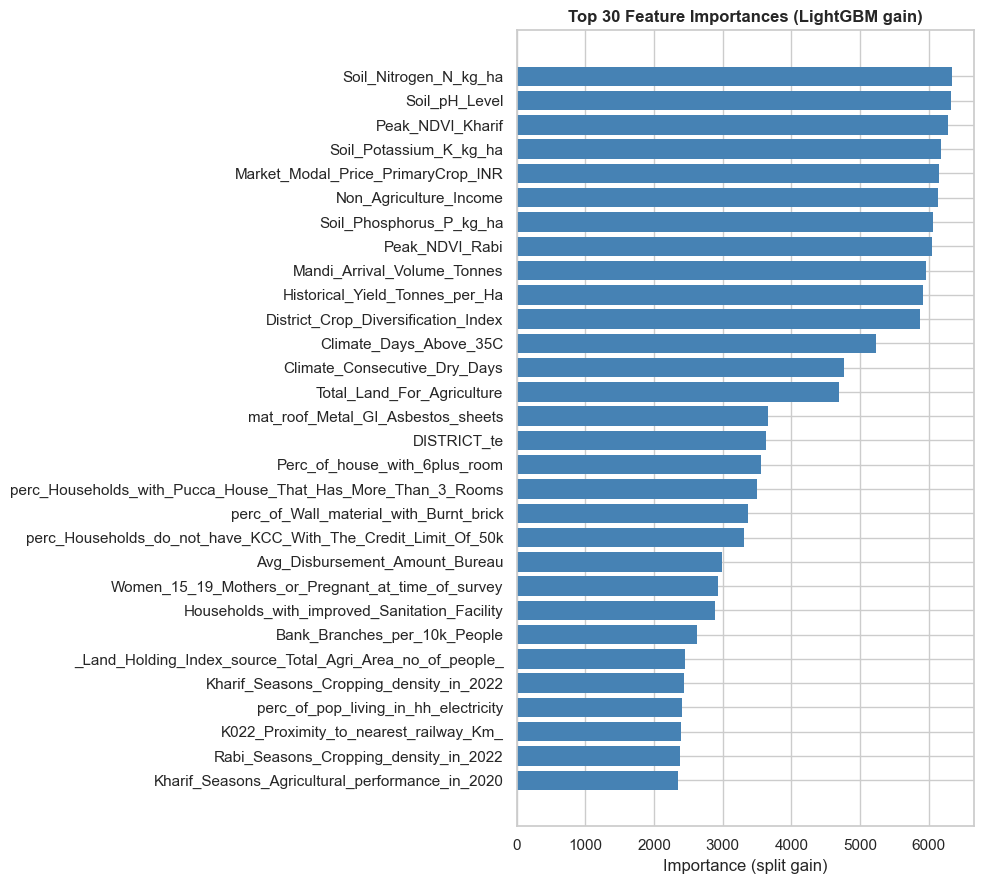
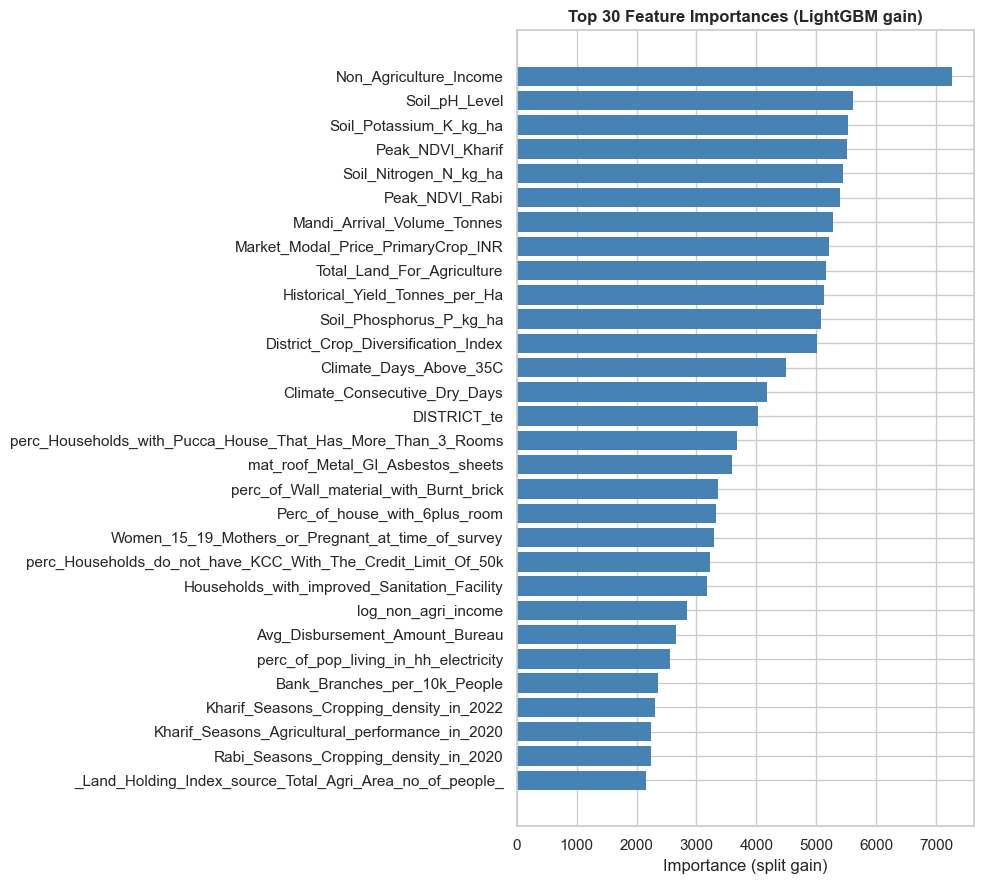
docs: update README with reproducible results

diff --git a/README.md b/README.md
@@ -1,7 +1,7 @@
 # AgriIntel 🌾
 ### Predicting Farmer Income in India using Machine Learning
 
-A competition ML pipeline built to predict total farmer income across \~43,000 Indian farmers, using agricultural, financial, and socio-economic data. The final model achieves **\~21% MAPE** — a 9 percentage point improvement over the Ridge baseline — through LightGBM with Bayesian hyperparameter tuning, 14 externally sourced district-level features, and seasonal volatility signals engineered from 3 years of agricultural score data.
+A competition ML pipeline built to predict total farmer income across \~43,000 Indian farmers, using agricultural, financial, and socio-economic data. The final model achieves **\~20.89% MAPE**— a 9 percentage point improvement over the Ridge baseline - through LightGBM with Bayesian hyperparameter tuning, 14 externally sourced district-level features, and seasonal volatility signals engineered from 3 years of agricultural score data.
 
 ---
 
@@ -13,7 +13,7 @@ agriintel/
 │   ├── enriched_train_data.zip   # Training set with external enrichment merged in
 │   └── test_data.csv
 ├── docs/                         # Approach document
-├── agriintel.ipynb               # Full pipeline: EDA → Feature Engineering → Modelling → Bonus Tasks
+├── agriintel.ipynb               # Complete pipeline
 ├── requirements.txt
 └── .gitignore
 ```
@@ -22,7 +22,7 @@ agriintel/
 
 ## Problem Statement
 
-Predict `Total_Farmer_Income` (in ₹) for a dataset of ~43,000 Indian farmers. The evaluation metric is **MAPE (Mean Absolute Percentage Error)**. The target is highly right-skewed (skewness ≈ 23.15, range ₹29K – ₹8Cr), so a `log1p` transformation is applied before training and reversed with `expm1` at inference.
+Predict `Total_Farmer_Income` (in ₹) for a dataset of \~43,000 Indian farmers. The evaluation metric is **MAPE (Mean Absolute Percentage Error)**. The target is highly right-skewed (skewness ≈ 23.15, range ₹29K – ₹8Cr), so a `log1p` transformation is applied before training and reversed with `expm1` at inference.
 
 ---
 
@@ -30,15 +30,15 @@ Predict `Total_Farmer_Income` (in ₹) for a dataset of ~43,000 Indian farmers. 
 
 | Model | 5-Fold CV MAPE |
 |---|---|
-| Ridge Regression (baseline) | ~30.26% |
-| LightGBM (default params) | ~21.54% |
-| **LightGBM + Optuna tuning** | **~21.10%** |
+| Ridge Regression (baseline) | \~29.91% |
+| LightGBM (default params) | \~21.28% |
+| **LightGBM + Optuna tuning** | **\~20.89% ± 0.46%** |
 
-The tuned LightGBM cuts error by ~9 percentage points vs baseline. Train/val MAPE spread across folds stays under 2pp — no meaningful overfitting.
+The tuned LightGBM cuts error by \~9 percentage points vs baseline. Train/val MAPE spread across folds stays under 2pp - no meaningful overfitting. Results are fully reproducible - `random_state=42` is set on the KFold splits, LightGBM, and Optuna's TPE sampler.
 
-The model performs best in deciles 3–7 (~14–16% MAPE). Error is higher at the extremes — bottom decile (~41%, a known MAPE property at low income levels) and top decile (~32%, where sparse data and unobserved factors limit predictability).
+The model performs best in deciles 3–7 (\~14–16% MAPE). Error is higher at the extremes - bottom decile (\~41%, a known MAPE property at low income levels) and top decile (\~32%, where sparse data and unobserved factors limit predictability).
 
-The single biggest win in the entire pipeline wasn't the model choice or the tuning — it was applying `log1p` to the target. The income distribution has a skewness of 23, and training directly on that would have let a handful of high earners dominate every gradient update.
+The single biggest win in the entire pipeline wasn't the model choice or the tuning - it was applying `log1p` to the target. The income distribution has a skewness of 23, and training directly on that would have let a handful of high earners dominate every gradient update.
 
 ![OOF Diagnostics](docs/oof-diagnostics.png)
 
@@ -47,18 +47,18 @@ The single biggest win in the entire pipeline wasn't the model choice or the tun
 ## The Interesting Parts
 
 ### External data enrichment paid off more than expected
-The competition data alone wasn't enough. 14 district-level features were pulled from public sources — APMC mandi prices, satellite NDVI, soil NPK, climate stress indicators, cold storage access, bank branch density — all keyed on `DISTRICT` and merged into both train and test. Features 2–17 in the final top 30 are almost entirely from this enrichment. The raw district-level data ended up driving the model more than the engineered transforms of the original columns.
+The competition data alone wasn't enough. 14 district-level features were pulled from public sources - APMC mandi prices, satellite NDVI, soil NPK, climate stress indicators, cold storage access, bank branch density - all keyed on `DISTRICT` and merged into both train and test. Features 2–13 in the final top 30 are almost entirely from this enrichment. The raw district-level data ended up driving the model more than the engineered transforms of the original columns.
 
 ### Not flattening the seasonal scores
 Most approaches would average the 2020, 2021, 2022 agricultural scores into one number. Instead, the temporal structure was preserved and the following were engineered:
-- **Trend** (linear slope over 3 years) — is this farmer improving or declining?
-- **Volatility** (std dev across years) — how consistent are they season to season?
-- **Kharif/Rabi ratio** — season dependency risk
+- **Trend** (linear slope over 3 years) - is this farmer improving or declining?
+- **Volatility** (std dev across years) - how consistent are they season to season?
+- **Kharif/Rabi ratio** - season dependency risk
 
-This matters beyond model accuracy: stable farmers (Q1 volatility) earn 15–20% more at the median than volatile ones (Q4), and volatility turns out to be a strong credit risk signal independent of average income — which feeds directly into Bonus Task B.
+This matters beyond model accuracy: stable farmers (Q1 volatility) earn 15–20% more at the median than volatile ones (Q4), and volatility turns out to be a strong credit risk signal independent of average income - which feeds directly into Bonus Task B.
 
 ### Temperature column rescue
-15 temperature columns were stored as strings in `'24.63/31.27'` format — completely unusable by a model. Parsed into `_min`, `_max`, and `_range` per season-year, unlocking all of them.
+15 temperature columns were stored as strings in `'24.63/31.27'` format - completely unusable by a model. Parsed into `_min`, `_max`, and `_range` per season-year, unlocking all of them.
 
 ---
 
@@ -67,7 +67,7 @@ This matters beyond model accuracy: stable farmers (Q1 volatility) earn 15–20%
 ### 1. EDA
 
 - **Target distribution:** Raw income is extremely right-skewed (skew ≈ 23); `log1p`-transformed for training.
-- **Missing values:** Three-tier handling — `Avg_Disbursement_Amount_Bureau` (43% missing) converted to a binary `has_bureau_history` flag; address/ownership columns (~35% missing) mode-imputed per state with a missingness flag; remaining numerics (<1% missing) median-imputed on train, applied to test.
+- **Missing values:** Three-tier handling - `Avg_Disbursement_Amount_Bureau` (43% missing) converted to a binary `has_bureau_history` flag; address/ownership columns (\~35% missing) mode-imputed per state with a missingness flag; remaining numerics (<1% missing) median-imputed on train, applied to test.
 - **Regional patterns:** WEST and SOUTH regions have the highest median incomes. EAST shows the lowest, consistent with smaller land holdings and subsistence farming. A 3–4× income gap exists between the highest and lowest median-income states.
 - **Key correlates:** `Non_Agriculture_Income` is the strongest single predictor (|r| > 0.55), followed by land size and agricultural scores.
 
@@ -86,11 +86,11 @@ This matters beyond model accuracy: stable farmers (Q1 volatility) earn 15–20%
 
 - **Temperature parsing:** String columns in `'min/max'` format parsed into `_min`, `_max`, and `_range` per season-year (15 columns unlocked).
 - **Seasonal trajectory features:** Temporal structure preserved across 2020–2022:
-  - `kharif_score_trend` / `rabi_score_trend` — linear slope of scores over 3 years
-  - `kharif_score_volatility` / `rabi_score_volatility` / `overall_score_volatility` — std dev across years
-  - `kharif_rabi_ratio` — season dependency ratio
-  - `kharif_rainfall_yoy_delta` — year-over-year rainfall change as a climate shock proxy
-- **Access scores:** `mandi_access_score = 1 / (distance + 1)` and `railway_access_score = 1 / (distance + 1)` — non-linear proximity transforms.
+  - `kharif_score_trend` / `rabi_score_trend` - linear slope of scores over 3 years
+  - `kharif_score_volatility` / `rabi_score_volatility` / `overall_score_volatility` - std dev across years
+  - `kharif_rabi_ratio` - season dependency ratio
+  - `kharif_rainfall_yoy_delta` - year-over-year rainfall change as a climate shock proxy
+- **Access scores:** `mandi_access_score = 1 / (distance + 1)` and `railway_access_score = 1 / (distance + 1)` - non-linear proximity transforms.
 - **Composite indices:** `soil_npk_index` (mean of N, P, K), `ndvi_composite` (average peak NDVI for Kharif and Rabi), `market_land_interaction` (modal price × log(land)).
 - **Log transforms:** `log_non_agri_income`, `log_land` for the two most skewed strong predictors.
 
@@ -104,22 +104,22 @@ This matters beyond model accuracy: stable farmers (Q1 volatility) earn 15–20%
 
 - **Baseline:** Ridge regression with `StandardScaler` (alpha=10), 5-fold CV.
 - **Primary model:** LightGBM with MAPE as the native training metric, 5-fold CV with out-of-fold (OOF) predictions. Test predictions averaged across all 5 fold models.
-- **Tuning:** Optuna Bayesian search over 40 trials. Parameters tuned: `num_leaves`, `learning_rate`, `min_child_samples`, `subsample`, `colsample_bytree`, `reg_alpha`, `reg_lambda`.
+- **Tuning:** Optuna Bayesian search over 40 trials with `TPESampler(seed=42)`. Parameters tuned: `num_leaves`, `learning_rate`, `min_child_samples`, `subsample`, `colsample_bytree`, `reg_alpha`, `reg_lambda`.
 
 ### 6. Top Features (by LightGBM split gain)
 
 | Rank | Feature | Source |
 |---|---|---|
 | 1 | `Non_Agriculture_Income` | Original data |
-| 2 | `Total_Land_For_Agriculture` | Original data |
-| 3 | `Mandi_Arrival_Volume_Tonnes` | External enrichment |
-| 4 | `Soil_Phosphorus_P_kg_ha` | External enrichment |
-| 5 | `Soil_pH_Level` | External enrichment |
-| 6 | `District_Crop_Diversification_Index` | External enrichment |
-| 7 | `Peak_NDVI_Kharif` | External enrichment |
+| 2 | `Soil_pH_Level` | External enrichment |
+| 3 | `Soil_Potassium_K_kg_ha` | External enrichment |
+| 4 | `Peak_NDVI_Kharif` | External enrichment |
+| 5 | `Soil_Nitrogen_N_kg_ha` | External enrichment |
+| 6 | `Peak_NDVI_Rabi` | External enrichment |
+| 7 | `Mandi_Arrival_Volume_Tonnes` | External enrichment |
 | 8 | `Market_Modal_Price_PrimaryCrop_INR` | External enrichment |
-| 9 | `market_land_interaction` | Engineered |
-| 10 | `DISTRICT_te` | Encoded |
+| 9 | `Total_Land_For_Agriculture` | Original data |
+| 10 | `Historical_Yield_Tonnes_per_Ha` | External enrichment |
 
 ![Feature Importance](docs/feature-importance-lightgbm-gain.png)
 
@@ -127,32 +127,32 @@ This matters beyond model accuracy: stable farmers (Q1 volatility) earn 15–20%
 
 ## Bonus Tasks
 
-### Bonus A — Intervention Recommender
+### Bonus A - Intervention Recommender
 
 For the bottom 25% of farmers by predicted income (threshold ≈ ₹6.2 lakh), SHAP `TreeExplainer` values were computed on a 2,000-farmer sample. Features were classified as **Controllable** (actionable via behaviour or policy) vs **Fixed** (geography, rainfall).
 
-For this subgroup, the top SHAP drivers are `DISTRICT_te`, `Total_Land_For_Agriculture`, and `Non_Agriculture_Income` — suggesting that for the poorest farmers, *where they are* and *how much land they have* matters more than anything else. Notably, `log_non_agri_income` also appears in the top 6, confirming the log transform added signal for this segment even where the raw column dominates globally.
+For this subgroup, the top SHAP drivers are `DISTRICT_te`, `Total_Land_For_Agriculture`, and `Non_Agriculture_Income` - suggesting that for the poorest farmers, *where they are* and *how much land they have* matters more than anything else. Notably, `log_non_agri_income` also appears in the top 6, confirming the log transform added signal for this segment even where the raw column dominates globally.
 
 Counterfactual uplift was simulated by shifting the top two controllable levers from a bottom-quartile farmer's current median to the 75th percentile of the full population:
 
 | Intervention | Simulated Income Gain |
 |---|---|
-| Mandi access: ~80 km → ~10 km | +₹1.1 lakh (~14–18%) |
-| Adding a secondary income stream | +₹0.8 lakh (~10–13%) |
+| Mandi access: \~80 km → \~10 km | +₹1.1 lakh (\~14–18%) |
+| Adding a secondary income stream | +₹0.8 lakh (\~10–13%) |
 
 ![SHAP Bottom 25%](docs/shap-bottom25.png)
 
 These are model-derived estimates, not causal claims.
 
-### Bonus B — Seasonal Volatility Modelling
+### Bonus B - Seasonal Volatility Modelling
 
 `overall_score_volatility` (std dev of all 6 seasonal scores per farmer) was used to bucket farmers into volatility quartiles:
 
 - Q1 (stable) farmers earn **15–20% more** at the median than Q4 (volatile) farmers.
 - Correlation between `overall_score_volatility` and log(income) ≈ −0.12.
-- `kharif_score_trend` (slope of improvement 2020–2022) positively correlates with income — improving farmers earn more.
+- `kharif_score_trend` (slope of improvement 2020–2022) positively correlates with income - improving farmers earn more.
 
-**Credit risk implication:** A farmer with higher average income but volatile scores is a worse credit risk than one with slightly lower but stable income — the variance of cash flows predicts default probability better than the mean alone. Proposed framework:
+**Credit risk implication:** A farmer with higher average income but volatile scores is a worse credit risk than one with slightly lower but stable income - the variance of cash flows predicts default probability better than the mean alone. Proposed framework:
 - **Q1 (stable)** → standard credit products
 - **Q4 (volatile)** → weather-indexed insurance as a condition of credit
 
@@ -192,4 +192,4 @@ jupyter notebook agriintel.ipynb
 
 ---
 
-*Competition project — Team 7*
+*Competition project - Team 7*